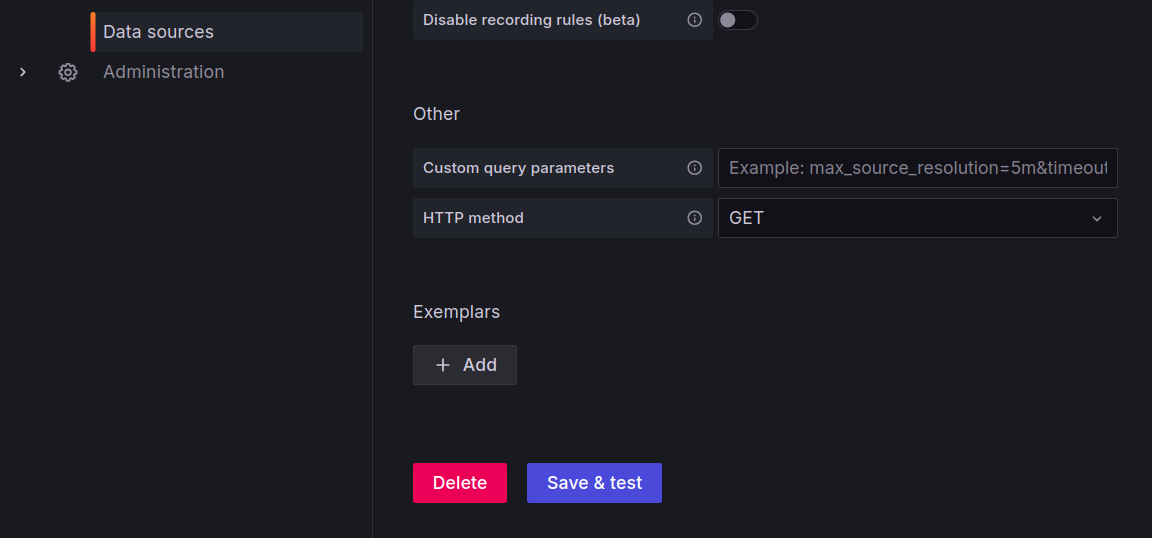
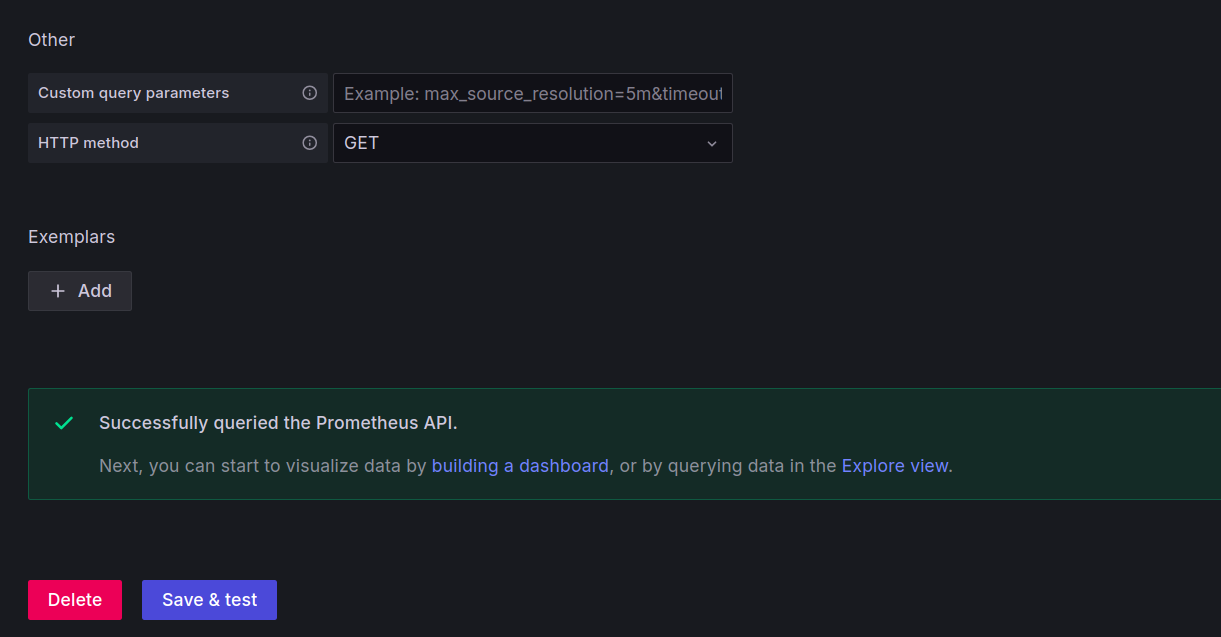
Add README

diff --git a/README.md b/README.md
@@ -1,1 +1,118 @@
-# free5gc-basic-config
+# Free5gc Analisys + Prometheus + Grafana
+This repository contains the steps to deploy a 5G infraestructure in docker container and make some initial analisys with metrics generated by "docker stats" and exported for better visualization with Prometheus and Grafana.
+
+## Step 1
+Clone this repository and prerpare the exacutables with:
+
+```
+git clone https://github.com/lucianoSF/free5gc-basic-config.git
+```
+
+```
+cd free5gc-basic-config
+```
+
+```
+chmod +x *.sh
+```
+
+
+## Step 2
+Deploy GTP5G kernel module with:
+```
+./gtp5g-deploy.sh
+```
+
+
+## Step 3
+Deploy free5gc 5G Core with:
+```
+./free5gc-deploy.sh
+```
+
+## Step 4
+Deploy Prometheus and Grafana with:
+```
+./prometheus-grafana-deplay.sh
+```
+
+## Step 5
+Create a UE registry on the webui ([http://192.168.56.101:5000](http://192.168.56.101:5000) in this case) of free5gc:
+
+default  user: <b>admin</b>\
+default password: <b>free5gc</b>
+<table>
+  <tr>
+    <td><img src="figs/fig8.png"></td>
+  </tr>
+</table>
+
+<table>
+  <tr>
+    <td><img src="figs/fig6.png"></td>
+  </tr>
+</table>
+
+
+## Step 6
+a) Configure Prometheus as the Data Source of the metrics on Grafana ([http://192.168.56.101:3000](http://192.168.56.101:5000) in this case):
+
+<table>
+  <tr>
+    <td><img src="figs/fig4.png"></td>
+  </tr>
+</table>
+
+<table>
+  <tr>
+    <td><img src="figs/fig2.png"></td>
+  </tr>
+</table>
+
+<table>
+  <tr>
+    <td><img src="figs/fig1.png"></td>
+  </tr>
+</table>
+
+b) Import the dashboard on grafana:
+<table>
+  <tr>
+    <td><img src="figs/fig9.png"></td>
+  </tr>
+</table>
+
+
+## Step 6
+Test the UE connection with the 5G:
+
+a) Run the UE inside UERANSIM conteiner:
+```
+docker exec -d ueransim ./nr-ue -c config/uecfg.yaml
+```
+
+b) Verify if <b>uesimtun0</b> interface was created:
+```
+docker exec ueransim  ip a
+```
+
+c) Try ping using the interface:
+```
+docker exec  ueransim  ping google.com -I uesimtun0
+```
+
+c) Install speedtest inside the UE conteiner:
+```
+docker exec  ueransim  apt  install speedtest-cli -y
+```
+
+d) Run speed test and verify the metrics:
+```
+docker exec  ueransim  speedtest-cli --secure --source 10.60.0.1
+```
+
+<table>
+  <tr>
+    <td><img src="figs/fig3.png"></td>
+  </tr>
+</table>
